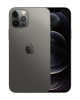
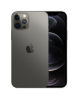
sanjar1987.github.io/openshop/

diff --git a/style/style.css b/style/style.css
@@ -200,6 +200,10 @@ p {
     border: var(--border);
 }
 
+.carousel-item {
+    background: radial-gradient(50% 50% at 50% 50%, rgba(255, 255, 255, 0.35) 0%, rgba(255, 255, 255, 0) 100%);
+}
+
 .carousel_btn {
     background-color: #ABABAB !important;
     width: 10px !important;
@@ -628,28 +632,33 @@ p {
 }
 
 /* next start */
-.next{
+.next {
     height: 100px;
 }
-.next_page{
-    text-align: center;    
+
+.next_page {
+    text-align: center;
 }
-.next_page a{
+
+.next_page a {
     text-decoration: none;
     font-family: var(--not400);
     font-size: 18px;
     color: #ABABAB;
     margin: 0 15px 0 15px;
 }
-.next_page a:hover{
+
+.next_page a:hover {
     color: black;
     font-family: var(--not600);
 }
+
 /* footer start */
 .footer {
     background-color: var(--back);
     height: 230px;
 }
+
 .footer_search {
     width: 63%;
     height: 50px;
@@ -658,7 +667,7 @@ p {
 }
 
 .footer_btn {
-    width:37%;
+    width: 37%;
     height: 50px;
     background-color: var(--btn);
     font-family: var(--not400);
@@ -667,48 +676,58 @@ p {
     background: #313131;
     border: 1px solid #FFFFFF;
 }
-.footer_btn:hover{
+
+.footer_btn:hover {
     background: #313131;
     border: 1px solid #FFFFFF;
 }
-.Foooter_left{
+
+.Foooter_left {
     margin-top: 30px;
 }
-.Foooter_center p{
+
+.Foooter_center p {
     font-family: var(--not400);
     font-size: 18px;
     margin-top: 30px;
     color: white;
     margin-bottom: 5px;
 }
-.Foooter_right{
+
+.Foooter_right {
     display: flex;
     align-items: flex-end;
     align-items: stretch;
 }
-.Foooter_right i{
+
+.Foooter_right i {
     font-size: 50px;
-    color: white;   
+    color: white;
 }
-.Foooter_right a{
-     margin-left: 25px;
+
+.Foooter_right a {
+    margin-left: 25px;
 }
-.fcbk{
+
+.fcbk {
     font-size: 45px !important;
 }
-.footer_titles{
+
+.footer_titles {
     display: flex;
     justify-content: space-between;
     margin-top: 30px;
     list-style: none;
 }
-.footer_title{
+
+.footer_title {
     text-decoration: none;
     color: white;
     font-family: var(--not400);
-    font-size: 18px;    
+    font-size: 18px;
 }
-.next_page{
+
+.next_page {
     height: 100%;
     display: flex;
     align-items: center;

diff --git a/style/media.css b/style/media.css
@@ -41,6 +41,10 @@
         color: white;
     }
 
+    .CP_box span {
+        background: radial-gradient(50% 50% at 50% 50%, rgba(255, 255, 255, 0.15) 0%, rgba(255, 255, 255, 0) 100%);
+        height: 35px;
+    }
 }
 
 @media(max-width:1400px) {
@@ -92,7 +96,7 @@
     .CP_1 {
         padding-bottom: 0;
     }
-
+}
     @media(max-width: 991px) {
         .navbar-toggler {
             display: inline;
@@ -735,19 +739,23 @@
             margin-right: 50px;
             margin-top: 15px;
         }
-        .comp_box1{
+
+        .comp_box1 {
             padding-bottom: 0px;
         }
-        
+
     }
 
-    @media(max-width: 320px) {
-        .CP_1{
+    @media(max-width: 320px)
+     {
+        .CP_1 {
             padding-bottom: 5px;
         }
-        .comp_box1{
+
+        .comp_box1 {
             padding-bottom: 12px;
         }
+
         .apple_topic {
             margin: 10px 0 30px;
             font-size: 25px;

diff --git a/index.html b/index.html
@@ -193,7 +193,7 @@
                 <div class="carousel-inner row">
                     <div class="left col-lg-6">
                         <div class="carousel-item active">
-                            <img src="./images/1_1.png" class="d-block w-100" alt="...">
+                            <img src="./images/1_1.png" class="d-block w-100" alt="...">                            
                         </div>
                         <div class="carousel-item">
                             <img src="./images/1_2.png" class="d-block w-100" alt="...">

diff --git a/style/style3.css b/style/style3.css
@@ -35,8 +35,13 @@ p {
     margin: 0;
 }
 
+
 .promax {
     margin-top: 70px;
+}
+
+.promax_apple{
+    background: radial-gradient(50% 50% at 50% 50%, rgba(255, 255, 255, 0.35) 0%, rgba(255, 255, 255, 0) 100%);
 }
 
 .promax_title {
@@ -64,6 +69,7 @@ p {
 }
 
 .promax_apple img{
+    height: 100%;
     width: 100%;
     display: flex;
     align-items: center;
